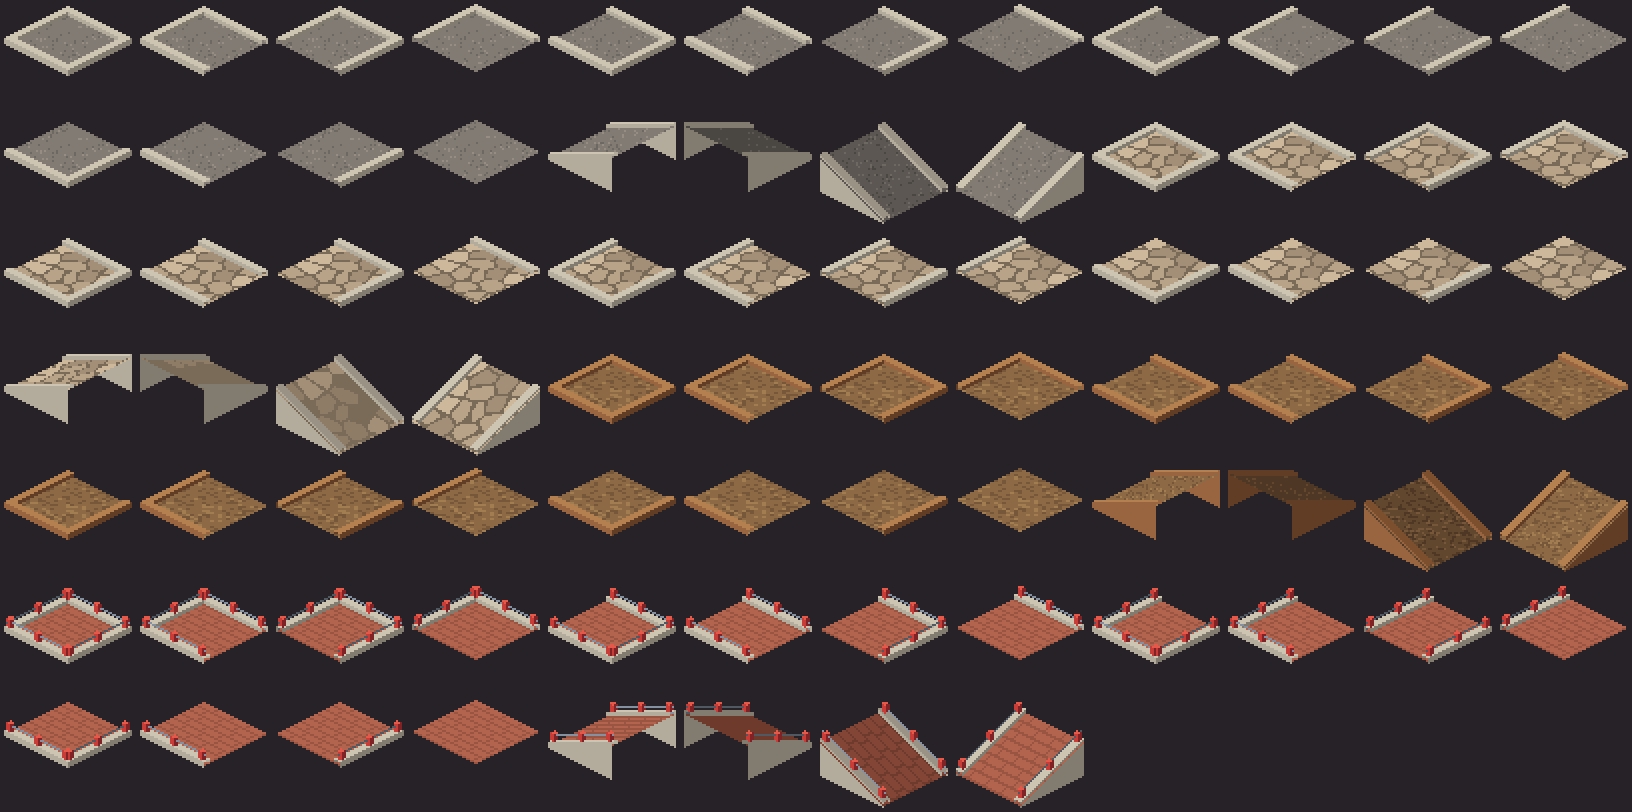
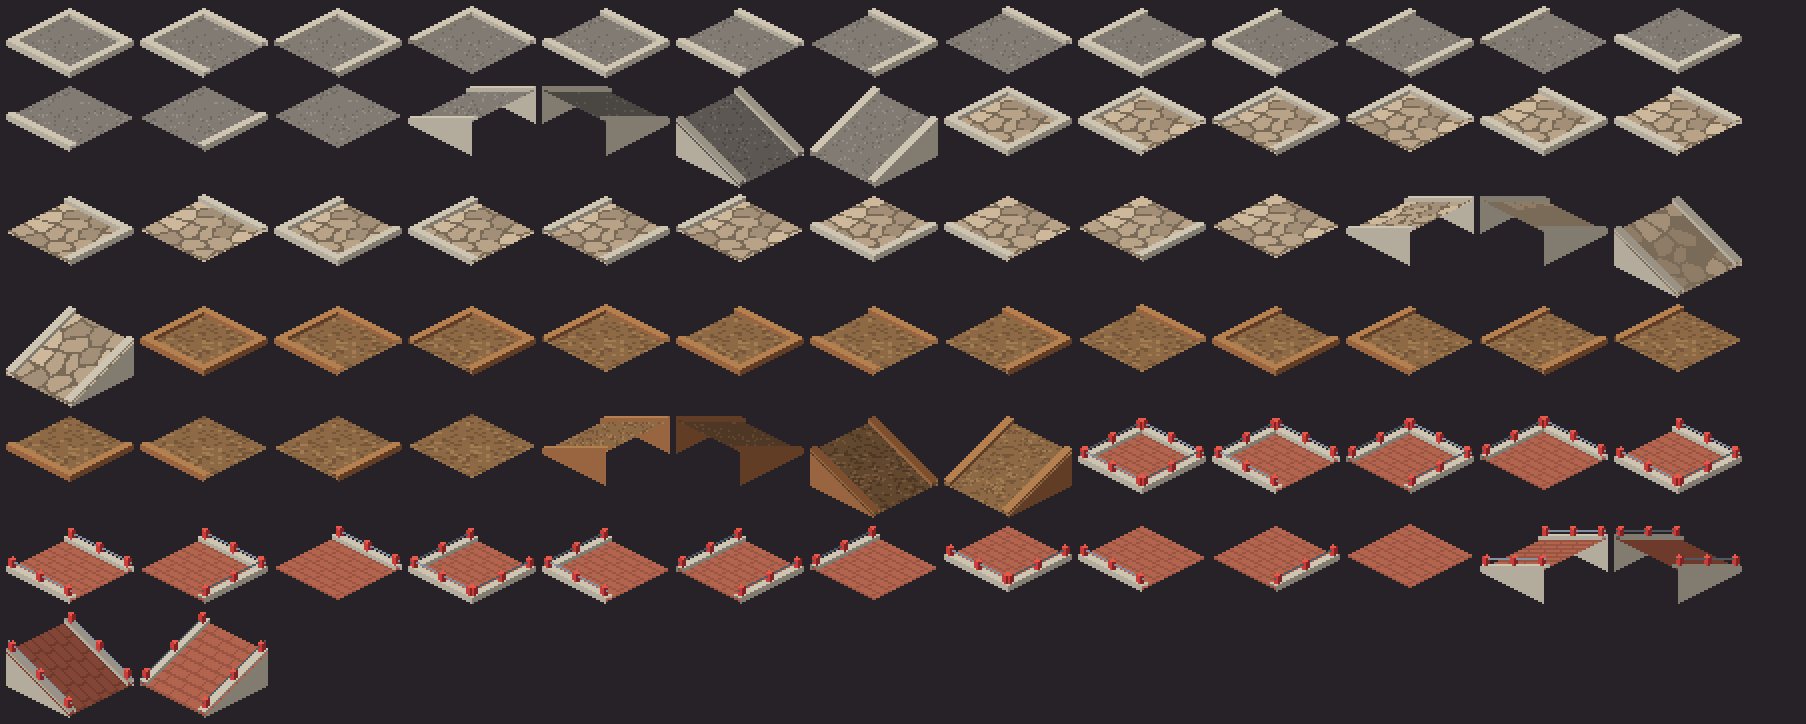
feat(sprites): contact sheets

diff --git a/tools/sprites/output.ts b/tools/sprites/output.ts
@@ -64,17 +64,29 @@ export async function writeSpriteDef(outputDir: string, def: SpriteDef): Promise
   await writeFile(target.replace(/\.png$/, '.json'), `${JSON.stringify(metadata, null, 2)}\n`);
 }
 
-/** Lays frame 0 of each sprite on a dark sheet at an integer scale for visual review. */
+/** Lays frame 0 of each sprite on a dark sheet (shelf layout) at an integer scale for review. */
 export async function contactSheet(
   defs: readonly SpriteDef[],
-  options: { columns: number; scale: number; background?: [number, number, number] },
+  options: { width: number; scale: number; background?: [number, number, number] },
 ): Promise<Buffer> {
   const frames = defs.map((d) => alignFrames(d.frames)[0]);
-  const cellW = Math.max(...frames.map((f) => f.width)) + 4;
-  const cellH = Math.max(...frames.map((f) => f.height)) + 4;
-  const rows = Math.ceil(frames.length / options.columns);
-  const width = cellW * options.columns;
-  const height = cellH * rows;
+  const pad = 3;
+  const placements: Array<{ x: number; y: number }> = [];
+  let cursorX = 0;
+  let cursorY = 0;
+  let shelf = 0;
+  for (const f of frames) {
+    if (cursorX + f.width + pad > options.width) {
+      cursorX = 0;
+      cursorY += shelf + pad;
+      shelf = 0;
+    }
+    placements.push({ x: cursorX + pad, y: cursorY + pad });
+    cursorX += f.width + pad;
+    shelf = Math.max(shelf, f.height);
+  }
+  const width = options.width + pad;
+  const height = cursorY + shelf + pad * 2;
   const bg = options.background ?? [38, 34, 40];
   const sheet = Buffer.alloc(width * height * 4);
   for (let i = 0; i < width * height; i++) {
@@ -84,8 +96,7 @@ export async function contactSheet(
     sheet[i * 4 + 3] = 255;
   }
   frames.forEach((f, i) => {
-    const ox = (i % options.columns) * cellW + 2;
-    const oy = Math.floor(i / options.columns) * cellH + 2;
+    const { x: ox, y: oy } = placements[i];
     const rgba = toRgba(f);
     for (let y = 0; y < f.height; y++)
       for (let x = 0; x < f.width; x++) {

diff --git a/tools/sprites/cli.ts b/tools/sprites/cli.ts
@@ -9,12 +9,15 @@ const sheetDirectory = new URL('../../docs/art/', import.meta.url).pathname;
 async function main(): Promise<void> {
   const groups = new Map<string, ReturnType<typeof buildSprites>>();
   for (const def of buildSprites()) {
-    const group = def.key.split('/')[0];
+    const parts = def.key.split('/');
+    const group =
+      parts[0] === 'track' || parts[0] === 'vehicles' ? `${parts[0]}-${parts[1]}` : parts[0];
+    if (group.startsWith('track-') && !/view-0\/cell-/.test(def.key)) continue;
     groups.set(group, [...(groups.get(group) ?? []), def]);
   }
   await mkdir(sheetDirectory, { recursive: true });
   for (const [group, defs] of groups) {
-    const sheet = await contactSheet(defs, { columns: 12, scale: 2 });
+    const sheet = await contactSheet(defs, { width: 900, scale: 2 });
     await writeFile(join(sheetDirectory, `contact-sheet-${group}.png`), sheet);
     console.log(`${group}: ${defs.length} sprites`);
   }
